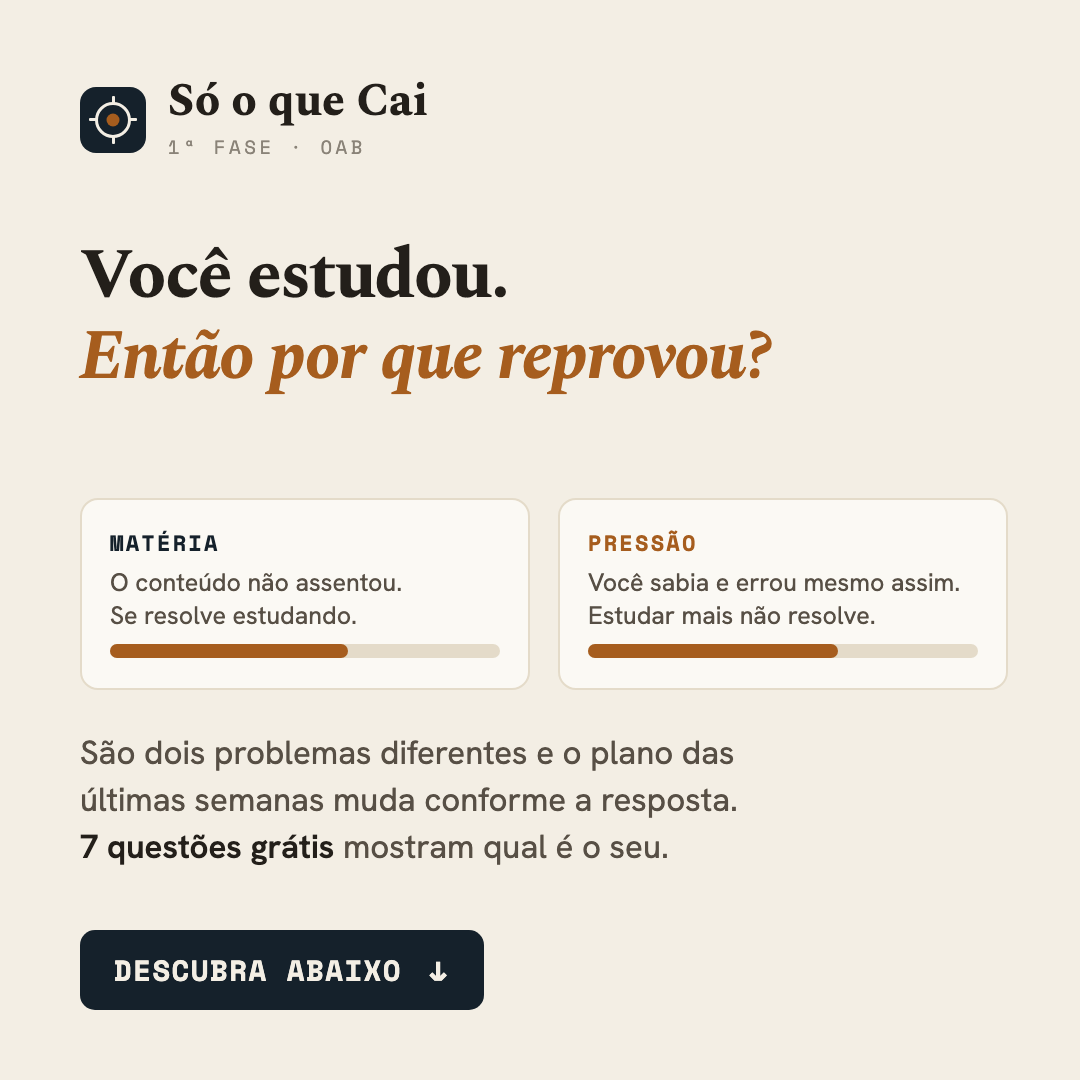
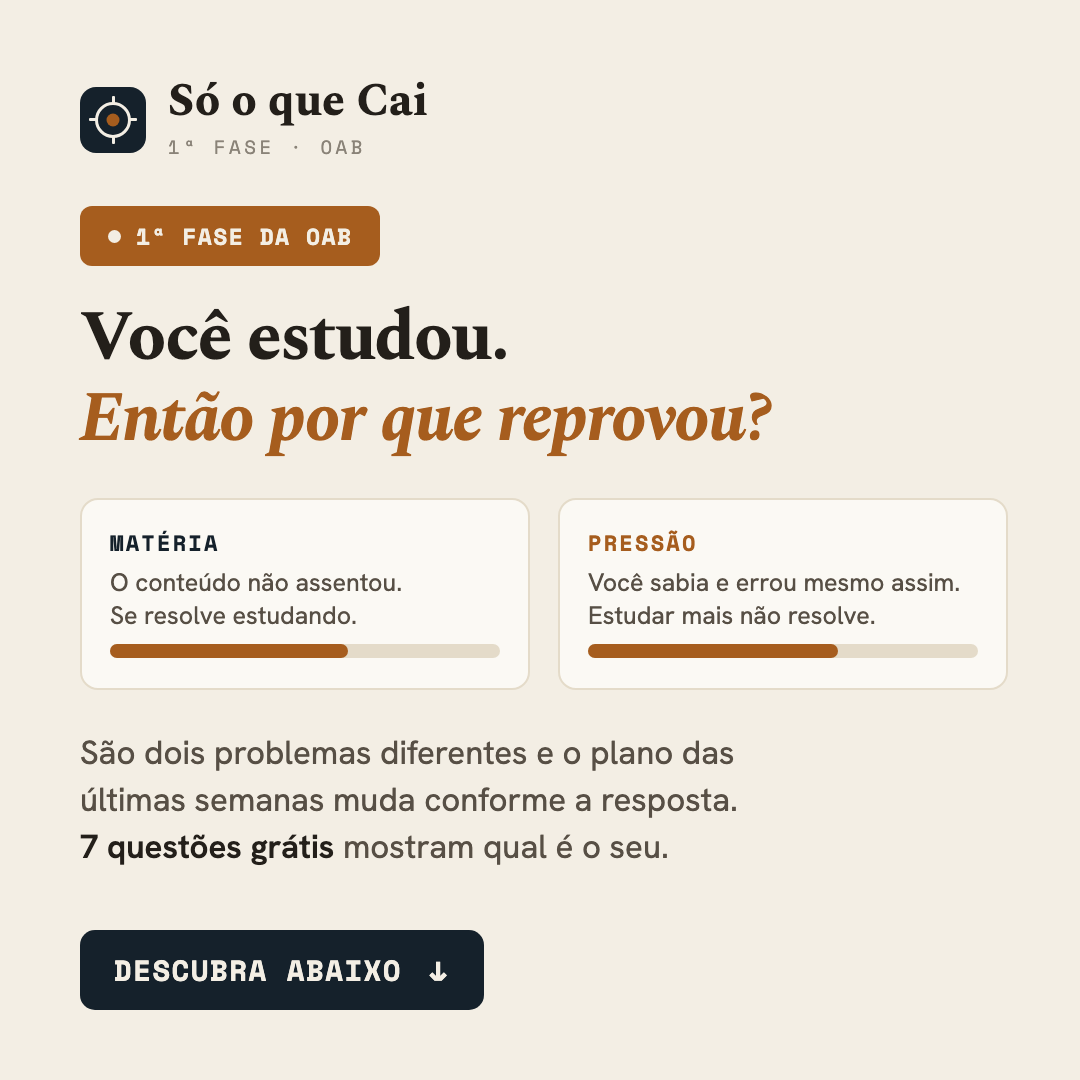
Criativos de dor: nomear o exame na zona quente da arte
Critica do usuario, e ela procede: no feed a pessoa le a manchete grande, e
'voce estudou, entao por que reprovou?' serve para concurso, faculdade, CNH.
O unico sinal de OAB era o '1a FASE . OAB' em cinza pequeno ao lado da marca,
que some no rolar.

Agora as tres tem etiqueta preenchida em ocre logo acima da manchete:
c1 'JA REPROVOU NA 1a FASE DA OAB', c2 '1a FASE DA OAB', e a c3 leva o exame
para dentro do bloco da data, que e o ponto focal dela.

Changed region(s): [[0.0611, 0.1833, 0.7333, 0.4278]]

diff --git a/criativos/c1-por-pouco-7q.html b/criativos/c1-por-pouco-7q.html
@@ -33,10 +33,10 @@
   .selo .t-o{top:50%;right:9px;margin-top:-1.5px;height:3px;width:9px}
   .nome{font-family:'Spectral',Georgia,serif;font-weight:700;font-size:46px;color:var(--ink);line-height:1}
   .sub{font-family:'Space Mono',monospace;font-size:19px;color:var(--muted);letter-spacing:.19em;margin-top:9px}
-  .pill{position:absolute;left:80px;top:212px;height:58px;padding:0 30px;border-radius:29px;
-        background:var(--pill);border:2px solid var(--ocre);display:flex;align-items:center;gap:16px;
-        font-family:'Space Mono',monospace;font-weight:700;font-size:23px;color:var(--ocre);letter-spacing:.07em}
-  .pill .dot{width:14px;height:14px;border-radius:50%;background:var(--ocre)}
+  .pill{position:absolute;left:80px;top:212px;height:60px;padding:0 28px;border-radius:12px;
+        background:var(--ocre);display:flex;align-items:center;gap:15px;
+        font-family:'Space Mono',monospace;font-weight:700;font-size:23px;color:var(--paper);letter-spacing:.06em}
+  .pill .dot{width:13px;height:13px;border-radius:50%;background:var(--paper)}
   .h{position:absolute;left:80px;top:312px;font-family:'Spectral',Georgia,serif;font-weight:700;
      font-size:80px;line-height:1.13;color:var(--ink);letter-spacing:-.02em}
   .h em{font-style:italic;color:var(--ocre);display:block}
@@ -64,7 +64,7 @@
     <div><div class="nome">Só o que Cai</div><div class="sub">1ª FASE · OAB</div></div>
   </div>
 
-  <div class="pill"><span class="dot"></span>JÁ REPROVOU NA 1ª FASE</div>
+  <div class="pill"><span class="dot"></span>JÁ REPROVOU NA 1ª FASE DA OAB</div>
 
   <div class="h">Reprovar por pouco<em>dói mais.</em></div>
 

diff --git a/criativos/c2-voce-estudou-7q.html b/criativos/c2-voce-estudou-7q.html
@@ -30,7 +30,11 @@
   .selo .t-o{top:50%;right:9px;margin-top:-1.5px;height:3px;width:9px}
   .nome{font-family:'Spectral',Georgia,serif;font-weight:700;font-size:46px;color:var(--ink);line-height:1}
   .sub{font-family:'Space Mono',monospace;font-size:19px;color:var(--muted);letter-spacing:.19em;margin-top:9px}
-  .h{position:absolute;left:80px;top:236px;font-family:'Spectral',Georgia,serif;font-weight:700;
+  .pill{position:absolute;left:80px;top:206px;height:60px;padding:0 28px;border-radius:12px;
+        background:var(--ocre);display:flex;align-items:center;gap:15px;
+        font-family:'Space Mono',monospace;font-weight:700;font-size:23px;color:var(--paper);letter-spacing:.06em}
+  .pill .dot{width:13px;height:13px;border-radius:50%;background:var(--paper)}
+  .h{position:absolute;left:80px;top:298px;font-family:'Spectral',Georgia,serif;font-weight:700;
      font-size:70px;line-height:1.15;color:var(--ink);letter-spacing:-.02em}
   .h em{font-style:italic;color:var(--ocre);display:block}
 
@@ -58,6 +62,8 @@
       <div class="anel"></div><div class="miolo"></div></div>
     <div><div class="nome">Só o que Cai</div><div class="sub">1ª FASE · OAB</div></div>
   </div>
+
+  <div class="pill"><span class="dot"></span>1ª FASE DA OAB</div>
 
   <div class="h">Você estudou.<em>Então por que reprovou?</em></div>
 

diff --git a/criativos/c3-06-de-setembro-7q.html b/criativos/c3-06-de-setembro-7q.html
@@ -37,7 +37,7 @@
   .data .dia{font-family:'Spectral',Georgia,serif;font-weight:700;font-size:112px;color:var(--paper);line-height:.9}
   .data .mes{font-family:'Space Mono',monospace;font-weight:700;font-size:26px;color:var(--ocre);
              letter-spacing:.22em;margin-top:14px}
-  .data .dom{font-family:'Space Mono',monospace;font-size:19px;color:#8FA0AC;letter-spacing:.12em;margin-top:10px}
+  .data .dom{font-family:'Space Mono',monospace;font-weight:700;font-size:21px;color:var(--paper);letter-spacing:.08em;margin-top:12px}
 
   .h{position:absolute;left:372px;top:228px;font-family:'Spectral',Georgia,serif;font-weight:700;
      font-size:66px;line-height:1.14;color:var(--ink);letter-spacing:-.02em}
@@ -64,7 +64,7 @@
   <div class="data">
     <div class="dia">06</div>
     <div class="mes">SETEMBRO</div>
-    <div class="dom">DOMINGO</div>
+    <div class="dom">1ª FASE DA OAB</div>
   </div>
 
   <div class="h">Não dá para<em>estudar tudo<br>de novo.</em></div>
